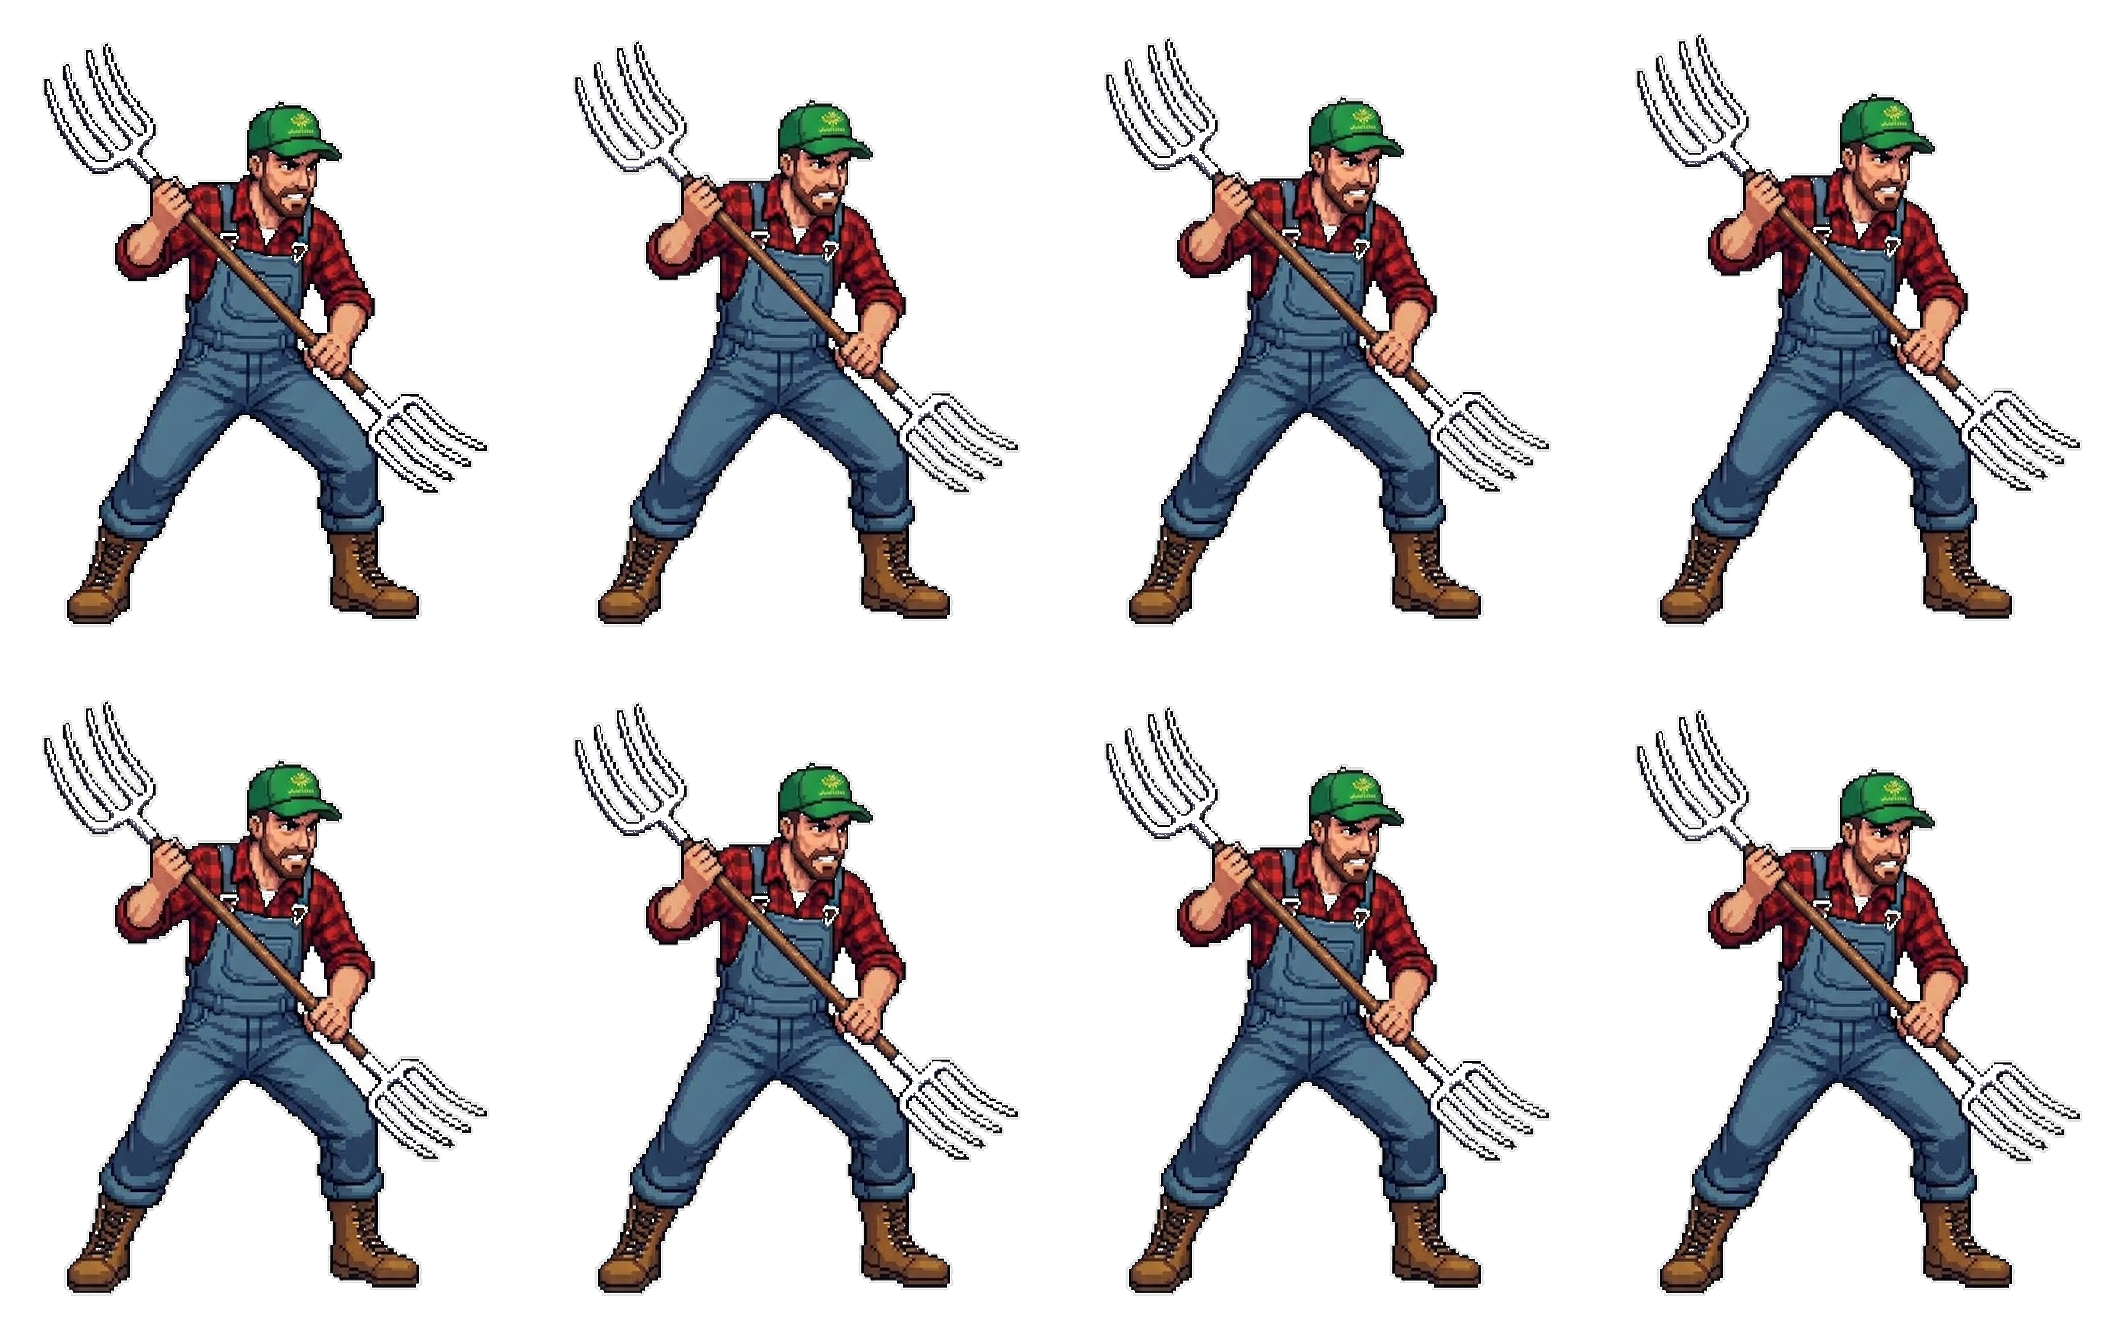
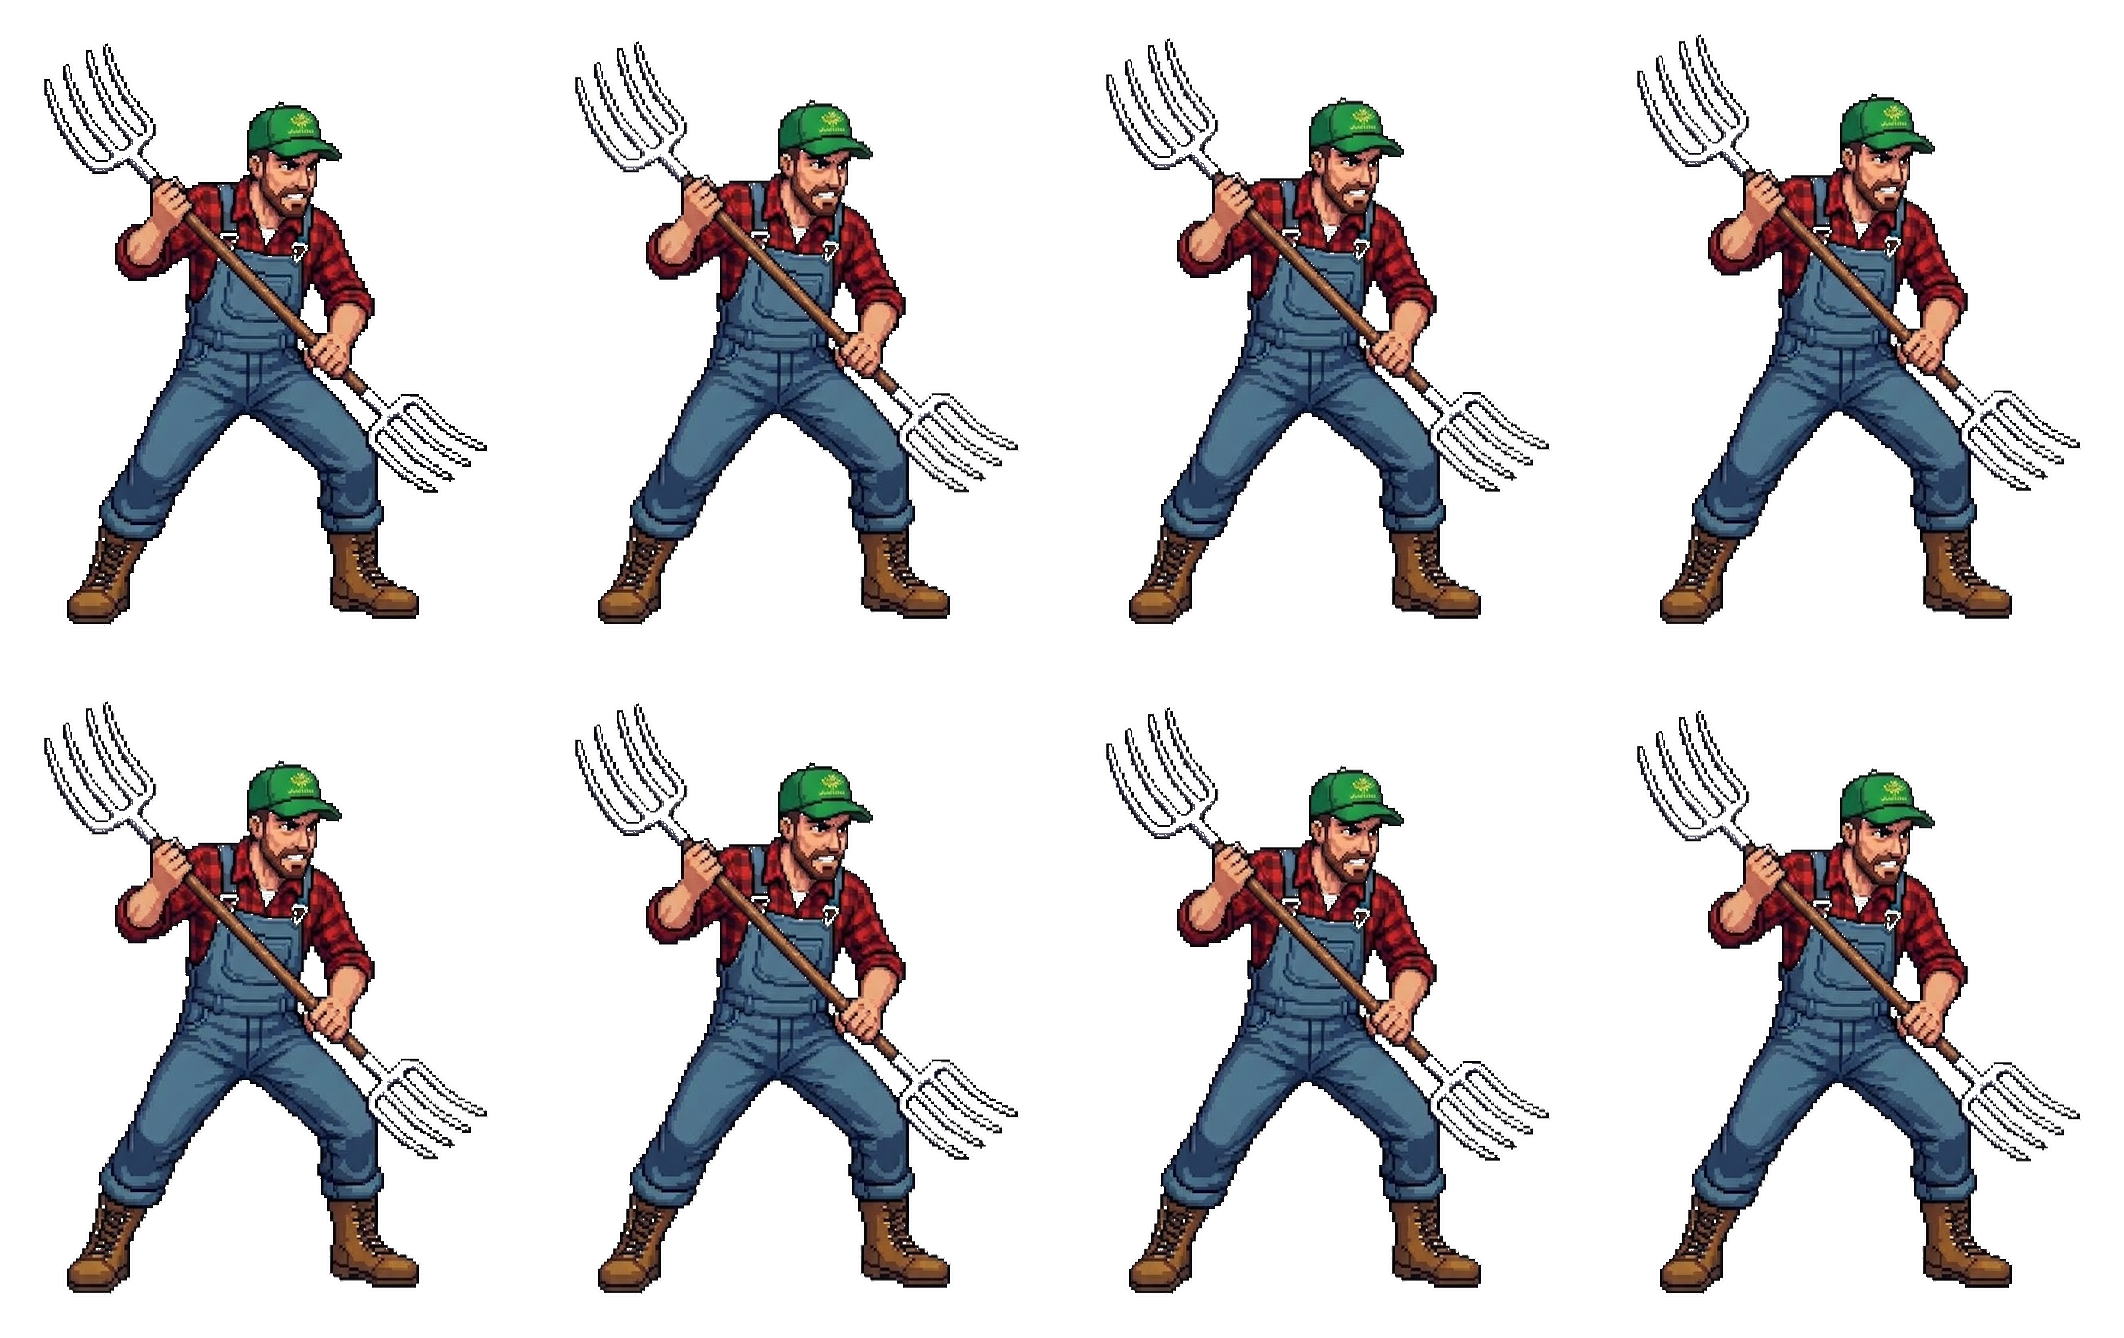
Refactor code structure for improved readability and maintainability

diff --git a/tools/make_xavi_agustin.py b/tools/make_xavi_agustin.py
@@ -99,6 +99,39 @@ def remove_shadow(rgba):
                 px[x, y] = (r, g, b, 0)
 
 
+def remove_white_regions(rgba, min_area=60):
+    w, h = rgba.size
+    px = rgba.load()
+
+    def is_white(x, y):
+        r, g, b, a = px[x, y]
+        return a > 128 and (max(r, g, b) - min(r, g, b)) <= 20 and (r + g + b) / 3 >= 225
+
+    seen = bytearray(w * h)
+    for y in range(h):
+        for x in range(w):
+            i = y * w + x
+            if seen[i] or not is_white(x, y):
+                continue
+            queue = deque([i])
+            seen[i] = 1
+            pixels = []
+            while queue:
+                j = queue.popleft()
+                pixels.append(j)
+                jx, jy = j % w, j // w
+                for dx, dy in ((1, 0), (-1, 0), (0, 1), (0, -1)):
+                    nx, ny = jx + dx, jy + dy
+                    if 0 <= nx < w and 0 <= ny < h:
+                        k = ny * w + nx
+                        if not seen[k] and is_white(nx, ny):
+                            seen[k] = 1
+                            queue.append(k)
+            if len(pixels) >= min_area:
+                for j in pixels:
+                    px[j % w, j // w] = (255, 255, 255, 0)
+
+
 def cutout(img, pixels, w, h):
     char = bytearray(w * h)
     for j in pixels:
@@ -158,6 +191,8 @@ def main():
     names = ["xavi", "agustin"]
     for name, pixels in zip(names, comps[:2]):
         static = cutout(img, pixels, w, h)
+        if name == "xavi":
+            remove_white_regions(static)
         base = BASE / "assets" / name
         base.mkdir(parents=True, exist_ok=True)
         static.save(base / f"{name}_idle.png")

diff --git a/AGENTS.md b/AGENTS.md
@@ -10,7 +10,7 @@ Juego de pelea 2D **"STRI FAIT — Version Wiber Turbo 2"**, con **Phaser 3.80.1
 
 ## Estructura / arranque
 - `index.html` carga **en orden**: Phaser (CDN) → `js/characters.js` → `js/scenes/GameScene.js` → `js/scenes/SelectScene.js` → `js/main.js`. El orden importa. No hay módulos: las clases y `CHARACTERS` son globales.
-- Escenas en `js/main.js` (`scene: [SelectScene, GameScene]`): **`SelectScene`** (elegir 2 de 6 luchadores; muestra **cuerpo entero animado** del personaje resaltado) → **`GameScene`** (combate, recibe `{p1, p2}` = índices de `CHARACTERS`).
+- Escenas en `js/main.js` (`scene: [SelectScene, GameScene]`): **`SelectScene`** (elegir 2 de 6 luchadores; muestra **cuerpo entero animado** del personaje resaltado) → **`GameScene`** (combate, recibe `{p1, p2}` = índices de `CHARACTERS`; reproduce intro **ROUND 1 / FIGHT!**).
 - Canvas fijo 1280x720 con `Phaser.Scale.FIT`.
 
 ## Personajes (`js/characters.js`)
@@ -26,18 +26,18 @@ Los **tamaños de frame viven en `CHARACTERS`** y deben coincidir con el PNG rea
 - `assets/bea/bea_idle_sheet.png` (330x529) y `assets/merche/merche_idle_sheet.png` (357x525) — 8 frames (4x2); generados por `tools/make_bea_merche.py`.
 - `assets/xavi/xavi_idle_sheet.png` (531x669) y `assets/agustin/agustin_idle_sheet.png` (393x598) — 8 frames (4x2); generados por `tools/make_xavi_agustin.py`.
 - Cada personaje tiene también `<key>_face.png` para la selección.
-- `assets/audio/audio1.mp3` — música de fondo, se reproduce en bucle en `GameScene`.
+- `assets/audio/audio1.mp3` — música de fondo; se **carga y reproduce una sola vez** en `SelectScene` (volumen 0.3) y continúa sonando en `GameScene` (no volver a cargarla/reproducirla ahí).
 
 `groundY`, `p1X` y `p2X` son constantes manuales en `GameScene.create`. Los `origin` son fracciones atadas a la base de los pies de cada sheet; al cambiar un sheet hay que recalcular `originY`/`sourceH`.
 
-El arte de origen llega a menudo como **JPEG con "transparencia falsa"** (fondo de cuadros o color sólido incrustado). Se elimina con flood-fill desde los bordes sobre píxeles claros y de bajo croma (ver `tools/`). Los PNG con alpha real no se procesan. Las sombras grises bajo los pies se quitan por color (gris medio sin croma).
+El arte de origen llega a menudo como **JPEG con "transparencia falsa"** (fondo de cuadros o color sólido incrustado). Se elimina con flood-fill desde los bordes sobre píxeles claros y de bajo croma (ver `tools/`). Los PNG con alpha real no se procesan. Las sombras grises bajo los pies se quitan por color (gris medio sin croma). Los parches blancos encerrados (huecos entre brazos/piernas, dientes de horquilla) se quitan por componentes conexos blancos (ver `make_xavi_agustin.py`).
 
 Mantener cada spritesheet por debajo de 8192px de ancho (límite de textura GPU): usar rejillas (4x2, 5x3), no tiras largas.
 
 ## tools/ (generadores Pillow, ejecución manual)
 - `make_dani.py` — `assets/dani/dani.jpeg` → `dani_idle.png`, `dani_idle_sheet.png` (respiración por rotación suave).
 - `make_bea_merche.py` — `assets/bea_merche.jpeg` → recorta Bea y Merche, quita sombras y genera sus `*_idle.png`/`*_idle_sheet.png` (respiración por estiramiento vertical anclado a los pies) y `*_face.png`.
-- `make_xavi_agustin.py` — `assets/xavi_agustin.jpeg` → recorta Xavi y Agustín y genera sus `*_idle.png`/`*_idle_sheet.png`/`*_face.png` (igual que Bea/Merche).
+- `make_xavi_agustin.py` — `assets/xavi_agustin.jpeg` → recorta Xavi y Agustín y genera sus `*_idle.png`/`*_idle_sheet.png`/`*_face.png` (igual que Bea/Merche; a Xavi le quita además las zonas blancas encerradas).
 - `make_faces.py` — recorta las caras de Jorge y Dani para la selección.
 - `make_sprites.py` y `cutout.py` — **obsoletos**: sus rutas `SRC` hardcodeadas ya no existen. No ejecutar a ciegas.
 - `fondo_sheet.png` se generó ad-hoc (frames del GIF → tira horizontal); no hay script que lo reproduzca.

diff --git a/README.md b/README.md
@@ -1,0 +1,72 @@
+# STRI FAIT — Version Wiber Turbo 2
+
+Juego de pelea 2D hecho en el navegador con **Phaser 3** (CDN) y **JavaScript puro, sin build**.
+
+![Captura de la pantalla de selección](screenshot.png)
+
+## 100% Vibe Coding
+
+Este proyecto ha sido creado **100% con vibe coding**, usando:
+
+- **[opencode](https://opencode.ai)** + **DeepSeek** para el código.
+- **Gemini** para generar las imágenes de los personajes.
+- **Suno** para el audio / la música de fondo.
+
+## Cómo cargarlo y probarlo
+
+No hay dependencias ni `package.json`: solo hace falta servir la carpeta con un servidor estático (Python ya viene incluido en la mayoría de sistemas).
+
+```bash
+cd /ruta/al/proyecto
+python3 -m http.server 8000
+```
+
+Luego abre en el navegador:
+
+```
+http://localhost:8000
+```
+
+> Importante: no abras `index.html` con doble clic (`file://`). El navegador bloquea la carga de las imágenes por CORS. Tiene que ser vía `http://localhost`.
+
+## Controles
+
+- **Pantalla de selección**: elige **dos** luchadores.
+  - `A` / `D` (o `←` / `→`) — mover selección
+  - `W` / `S` (o `↑` / `↓`) — cambiar de fila
+  - `Enter` o `Espacio` — elegir (primero el Jugador 1, luego el Jugador 2)
+- **Combate**: muestra a los dos elegidos, uno frente al otro, con la intro clásica **ROUND 1 / FIGHT!**.
+
+## Personajes
+
+| Nombre | Id |
+| --- | --- |
+| Jorge | `jorge` |
+| Dani | `dani` |
+| Bea | `bea` |
+| Merche | `merche` |
+| Xavi | `xavi` |
+| Agustín | `agustin` |
+
+## Estructura
+
+```
+.
+├── index.html              # arranque (carga Phaser CDN + scripts)
+├── js/
+│   ├── characters.js       # fuente de verdad de los 6 personajes
+│   ├── main.js             # configuración de Phaser y escenas
+│   └── scenes/
+│       ├── SelectScene.js  # selección de personaje (estilo ochentero)
+│       └── GameScene.js    # combate + intro ROUND 1 / FIGHT!
+├── assets/                 # spritesheets, caras, fondo y música
+└── tools/                  # scripts Python (Pillow) para recortar/generar assets
+```
+
+## Verificación rápida
+
+```bash
+node --check js/characters.js js/main.js js/scenes/GameScene.js js/scenes/SelectScene.js
+```
+
+Más detalles técnicos (assets, recorte de fondos, generadores) en [`AGENTS.md`](AGENTS.md).
